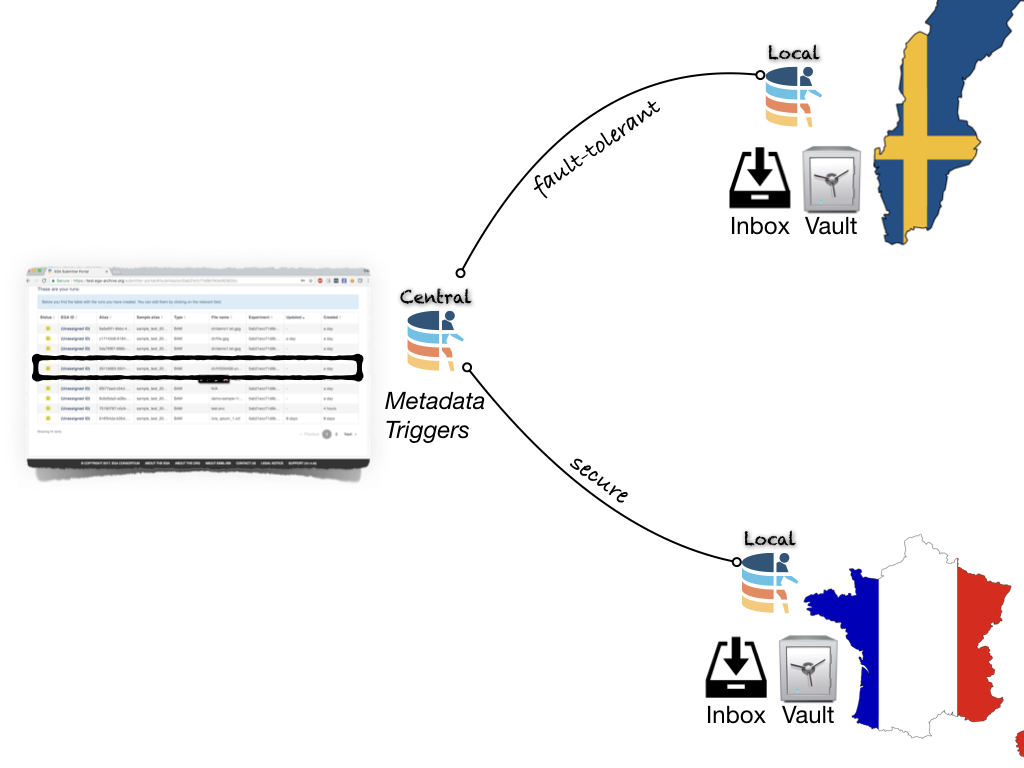
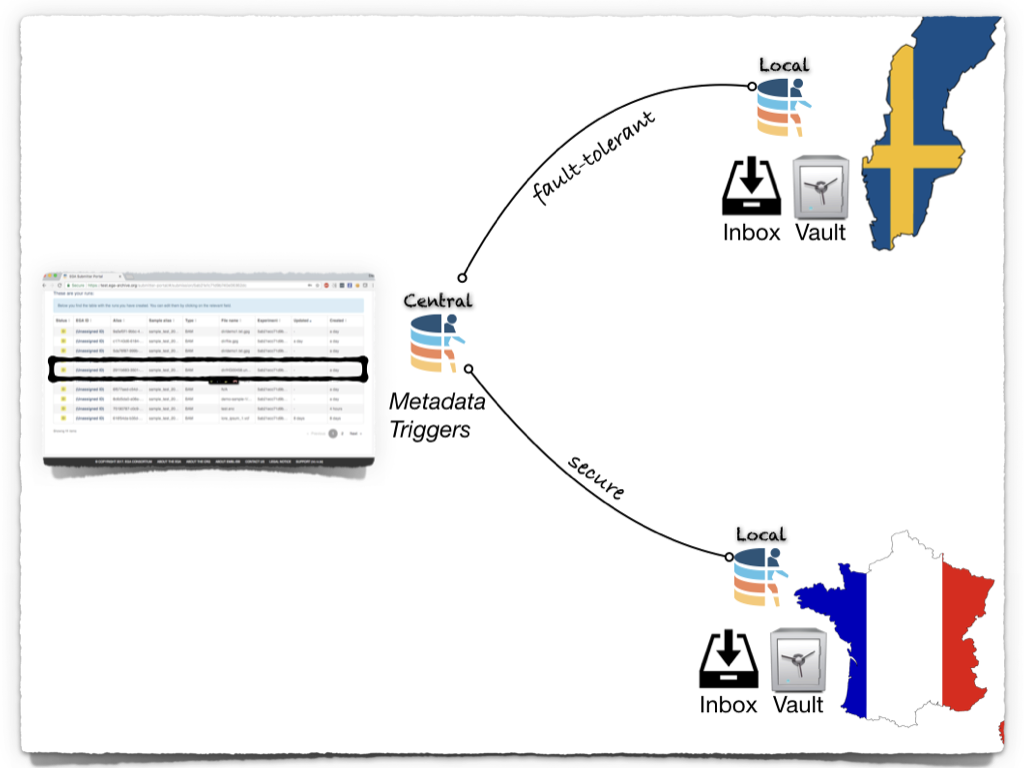
AMQP picture and interface

diff --git a/docs/static/custom.css b/docs/static/custom.css
@@ -19,3 +19,6 @@ body { overflow-x: initial !important; } /* Fix readthedocs bug */
 
 #lega thead,
 #lega-save thead{ display: none; }
+
+
+.img-right { float:right; width:50%; }

diff --git a/docs/amqp.rst b/docs/amqp.rst
@@ -13,15 +13,10 @@ problems. Naturally, this is configurable.
 In practice, the `reference implementation
 <https://github.com/EGA-archive/LocalEGA/tree/master/ingestion/mq>`_
 uses the RabbitMQ message broker for each LocalEGA, henceforth called
-``LegaMQ`` or *local broker*, which is the **only** component with the
-necessary credentials to connect to the Central EGA message broker,
-henceforth called ``CegaMQ`` or *central broker*. The other LocalEGA
-components are connected to their respective local broker.
-
-
-.. image:: /static/CEGA-LEGA.png
-   :target: ./_static/CEGA-LEGA.png
-   :alt: RabbitMQ setup
+*local broker*, which is the **only** component with the necessary
+credentials to connect to the Central EGA message broker, henceforth
+called *central broker*. The other LocalEGA components are connected
+to their respective local broker.
 
 .. note:: We pinned the RabbitMQ version to ``3.7.8``, so far, until
           both CegaMQ and LegaMQ can be upgraded simultaneously to the
@@ -38,19 +33,23 @@ string with the following syntax:
    amqps://<user>:<password>@<cega-host>:<port>/<vhost>
 
 
+.. image:: /static/amqp.png
+   :target: ./_static/amqp.png
+   :alt: RabbitMQ setup
+
 The connection is a two-way connection using a combination of a
 *federated queue* and a *shovel*.
 
-``LegaMQ`` registers a *federated queue* with ``CegaMQ`` as *upstream*
-and listens to the incoming messages. In order to minimize the number
-of connection sockets, all Local EGAs only use *one* federated queue
-towards the central broker, and all messages in the queue are
-distinguished with a ``type``.
+The local broker registers a *federated queue* with the central broker
+as *upstream*, named ``v1.files``, and listens to the incoming
+messages. In order to minimize the number of connection sockets, all
+Local EGAs only use *one* federated queue towards the central broker,
+and all messages in the queue are distinguished with a ``type``.
 
-Ingestion workers listen to the downstream queue of the local broker. If there
-are no messages to work on, ``LegaMQ`` will ask its upstream queue if
-it has messages. If so, messages are moved downstream. If not,
-ingestion workers wait for messages to arrive.
+Ingestion workers listen to the downstream queue of the local
+broker. If there are no messages to work on, the local broker will ask
+its upstream queue if it has messages. If so, messages are moved
+downstream. If not, ingestion workers wait for messages to arrive.
 
 .. note:: This allows a Local EGA instance to *also* ingest files from
    other sources than Central EGA. For example, a message, external to
@@ -58,25 +57,20 @@ ingestion workers wait for messages to arrive.
    ingest non-EGA files.
 
 
-``CegaMQ`` receives notifications from ``LegaMQ`` using a
-*shovel*. ``LegaMQ`` has an exchange named ``cega`` configured such
-that all messages published to it get forwarded to CentralEGA (using
-the same routing key). This is how we propagate the different status
-of the workflow to the central broker, using the following routing keys:
+The central broker receives notifications from the local broker using
+a *shovel*. The local broker has an exchange named ``cega`` configured
+such that all messages published to it get forwarded to CentralEGA
+(using the same routing key). This is how we propagate the different
+status of the workflow to the central broker, using the following
+routing keys:
 
-+-----------------------+---------------------------------------------+
-| Name                  | Purpose                                     |
-+=======================+=============================================+
-| files.archived        | file is properly ingested                   |
-+-----------------------+---------------------------------------------+
-| files.completed       | file is properly backed-up                  |
-+-----------------------+---------------------------------------------+
-| files.error           | user-related error is detected              |
-+-----------------------+---------------------------------------------+
-| files.inbox           | file is (re)uploaded or removed             |
-+-----------------------+---------------------------------------------+
+* ``files.verified`` for properly ingested files, ready to request an Accession ID.
+* ``files.completed`` for properly backed-up files, ready to be distributed
+* ``files.error`` for user-related errors
+* ``files.inbox`` for inbox file operations
 
-
+The shovel is backed by a ``to_cega`` is case *CegaMQ* is temporarily
+unavailable. This is similar to a (reverse) federated queue.
 
 
 Message interface (API)

diff --git a/docs/ingestion.rst b/docs/ingestion.rst
@@ -101,7 +101,6 @@ Once the source tree downloaded, in the ``deploy`` directory, run the following 
 
     $ make -C bootstrap
 
-
 Once the bootstrap files are generated, all interesting settings are
 found in the ``private`` sub-directory, and you can spin up the
 Local EGA components, using:
@@ -112,8 +111,7 @@ Local EGA components, using:
 
 The docker images are automatically generated on `docker hub`_, and
 will be pulled in when booting the LocalEGA instance. This includes a
-reference implementation of the `inbox component`_, found in a
-separate repository.
+reference implementation of the :ref:`inbox login system`.
 
 That said, you can also (pre/re)generate the images with ``make -j 4 images``.
 
@@ -139,24 +137,17 @@ will interact with the system. All tests are performed on GitHub
 Actions runner, when there is a push to master or a Pull Request
 creation (i.e., they are integrated to the CI).
 
-+-----------------------+-------------------------------------------------------+
-| Category              | Purpose                                               |
-+=======================+=======================================================+
-| `Integration Tests`_  | test the overall ingestion architecture               |
-|                       | and simulate how a user will use the system           |
-+-----------------------+-------------------------------------------------------+
-| `Robustness Tests`_   | test the microservice architecture and how            |
-|                       | the components are inter-connected. They, for example,|
-|                       | check that if the database or one microservice        |
-|                       | is restarted, the overall functionality remains.      |
-+-----------------------+-------------------------------------------------------+
-| `Security Tests`_     | increase confidence around security of the            |
-|                       | implementation. They give some deployment guarantees, |
-|                       | such as one user cannot see the inbox of another user,|
-|                       | or the vault is not accessible from the inbox.        |
-+-----------------------+-------------------------------------------------------+
-| `Stress Tests`_       | "measure" performance                                 |
-+-----------------------+-------------------------------------------------------+
+* `Integration Tests`_: test the overall ingestion architecture and
+  simulate how a user will use the system.
+* `Robustness Tests`_: test the microservice architecture and how the
+  components are inter-connected. They, for example, check that if the
+  database or one microservice is restarted, the overall functionality
+  remains.
+* `Security Tests`_: increase confidence around security of the
+  implementation. They give some deployment guarantees, such as one
+  user cannot see the inbox of another user, or the vault is not
+  accessible from the inbox.
+* `Stress Tests`_: "measure" performance
 
 
 .. _All tests: https://github.com/EGA-archive/LocalEGA/tree/master/tests
@@ -169,7 +160,6 @@ creation (i.e., they are integrated to the CI).
 .. _Docker Swarm: https://github.com/neicnordic/LocalEGA-deploy-swarm
 .. _Kubernetes: https://github.com/neicnordic/LocalEGA-deploy-init
 .. _Our partners: https://github.com/neicnordic/LocalEGA
-.. _inbox component: https://github.com/EGA-archive/LocalEGA-inbox
 .. _docker hub: https://hub.docker.com/orgs/egarchive/repositories
 
 .. |Testsuite| image:: https://github.com/EGA-archive/LocalEGA/workflows/Testsuite/badge.svg

diff --git a/docs/index.rst b/docs/index.rst
@@ -2,6 +2,10 @@
 Local EGA
 ================
 
+.. image:: /static/CEGA-LEGAs.png
+   :alt: Central EGA and Local EGAs
+   :class: img-right
+
 The ``Local EGA`` project consists of several components:
 
 * An inbox
@@ -9,10 +13,16 @@ The ``Local EGA`` project consists of several components:
 * An ingestion pipeline
 * A distribution system
 
-In short, the ingestion pipeline moves encrypted files from the inbox
-into the long-term storage, and saves information in the database. In
-the process, each ingested file obtain an ``Accession ID``, which
-identifies it uniquely across `the EGA
+It aims at solving the issue where sensitive data cannot move across
+borders (cf to GDPR), while public metadata can. Files will be stored
+encrypted in the Local EGAs located in different countries, while
+public metadata stays at Central EGA.
+
+In short, submitters upload encrypted files into a Local EGA inbox,
+located in the relevant country. The ingestion pipeline moves the
+encrypted files from the inbox into the long-term storage, and saves
+information in the database. In the process, each ingested file obtain
+an ``Accession ID``, which identifies it uniquely across `the EGA
 <https://ega-archive.org/>`_. The distribution system allows
 requesters to access securely the encrypted files in the long-term
 storage, using the accession id, if permissions are granted by a Data
@@ -73,9 +83,9 @@ provided the original files.
    :maxdepth: 1
 
    Connection CEGA-LEGA <amqp>
-   Inbox                <inbox>
    Ingestion            <ingestion>
    Distribution         <outgestion>
+   Inbox                <inbox>
    Encryption           <encryption>
    Contributing         <https://github.com/EGA-archive/LocalEGA/blob/master/CONTRIBUTING.md>
 
